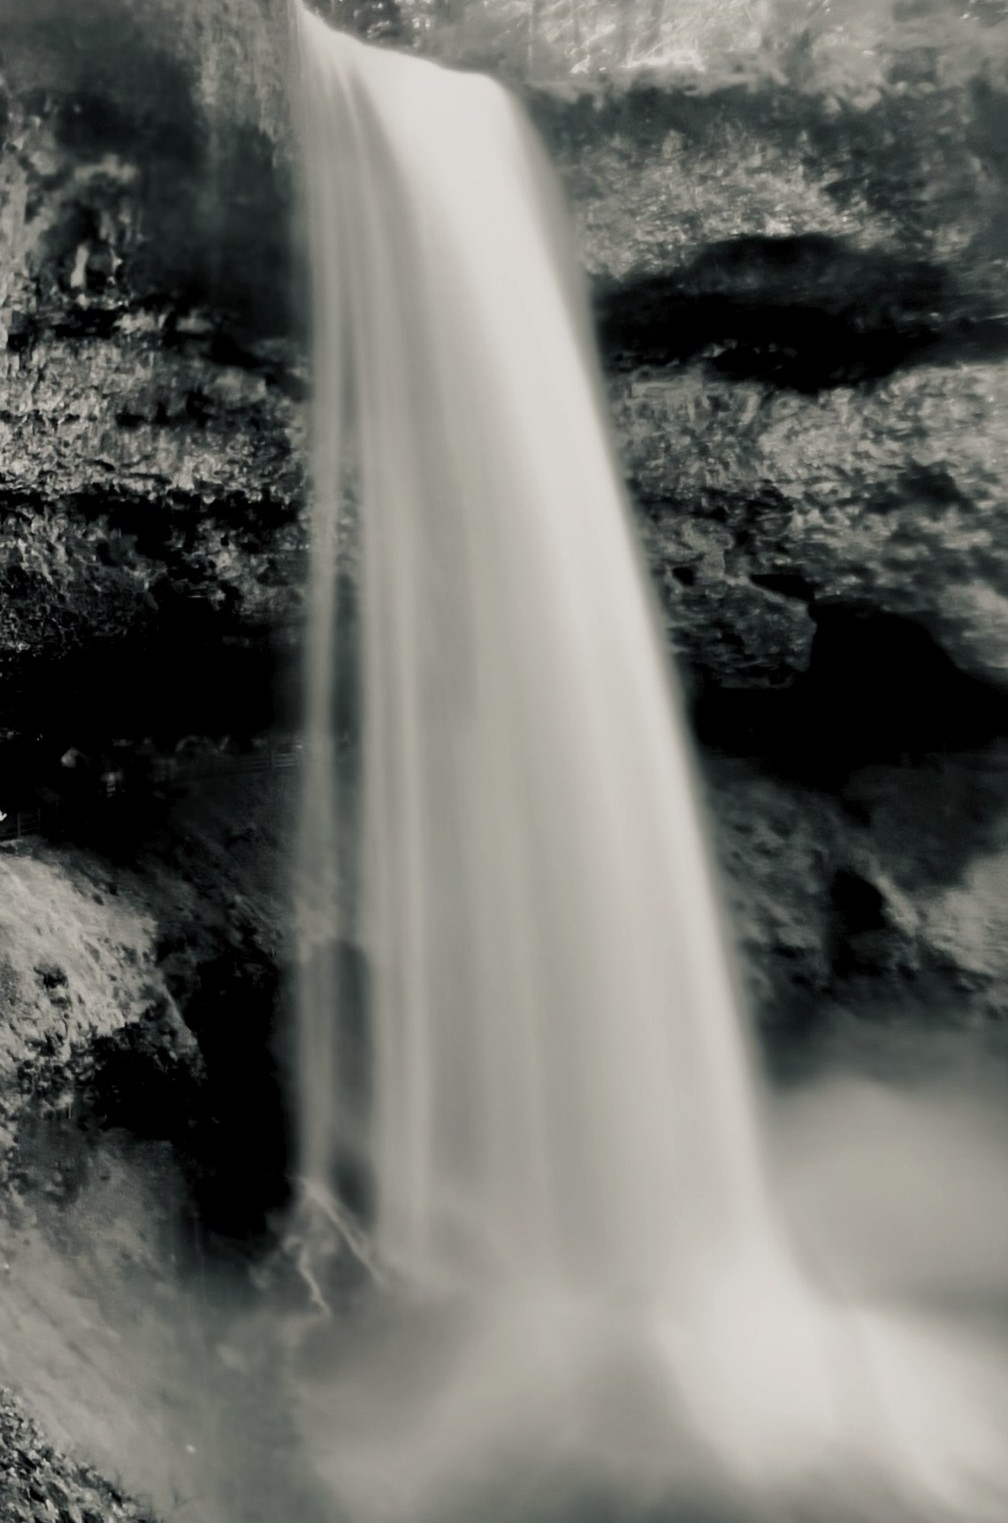
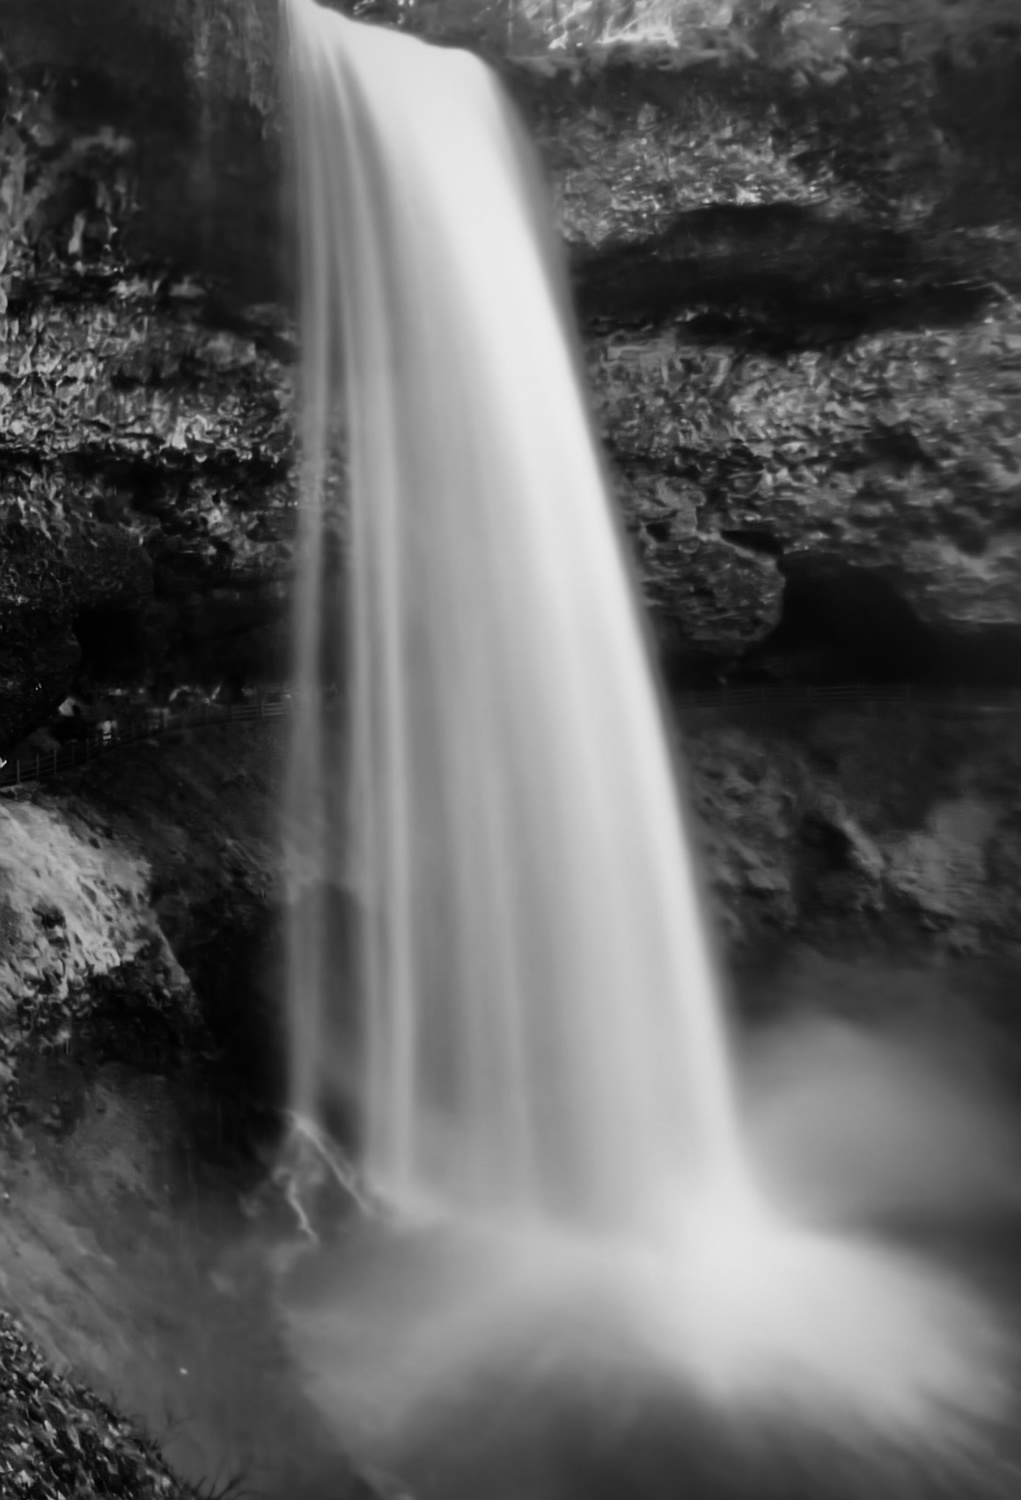
Relative: new edits for Gravity and Ramification
Replace both images of Relative 03, Gravity (scar, waterfall) and
Relative 05, Ramification (backlit fingers, birch) with re-edited
versions. Trims a 3-4px white export strip from the right edge of
each and updates their entries in lib/image-sizes.ts.

Claude-Session: https://claude.ai/code/session_012LDqrjzSaQkNAdRihkRpQ9

diff --git a/lib/image-sizes.ts b/lib/image-sizes.ts
@@ -268,14 +268,14 @@ export const imageSizes: Record<string, [number, number]> = {
   "/art/relative/relative-02-insulation-b.jpg": [2566, 1704],
   "/art/relative/relative-02A.jpg": [864, 1080],
   "/art/relative/relative-02B.jpg": [824, 1080],
-  "/art/relative/relative-03-gravity-a.jpg": [1134, 1525],
-  "/art/relative/relative-03-gravity-b.jpg": [1008, 1523],
+  "/art/relative/relative-03-gravity-a.jpg": [1021, 1500],
+  "/art/relative/relative-03-gravity-b.jpg": [1021, 1500],
   "/art/relative/relative-04-striation-a.jpg": [1021, 1500],
   "/art/relative/relative-04-striation-b.jpg": [1023, 1495],
   "/art/relative/relative-04A.jpg": [909, 885],
   "/art/relative/relative-04B.jpg": [909, 885],
-  "/art/relative/relative-05-ramification-a.jpg": [1761, 2571],
-  "/art/relative/relative-05-ramification-b.jpg": [1840, 2568],
+  "/art/relative/relative-05-ramification-a.jpg": [1022, 1500],
+  "/art/relative/relative-05-ramification-b.jpg": [1021, 1500],
   "/art/relative/relative-05A.jpg": [875, 1080],
   "/art/relative/relative-05B.jpg": [820, 1080],
   "/art/relative/relative-06-umbra-a.jpg": [1222, 1458],
